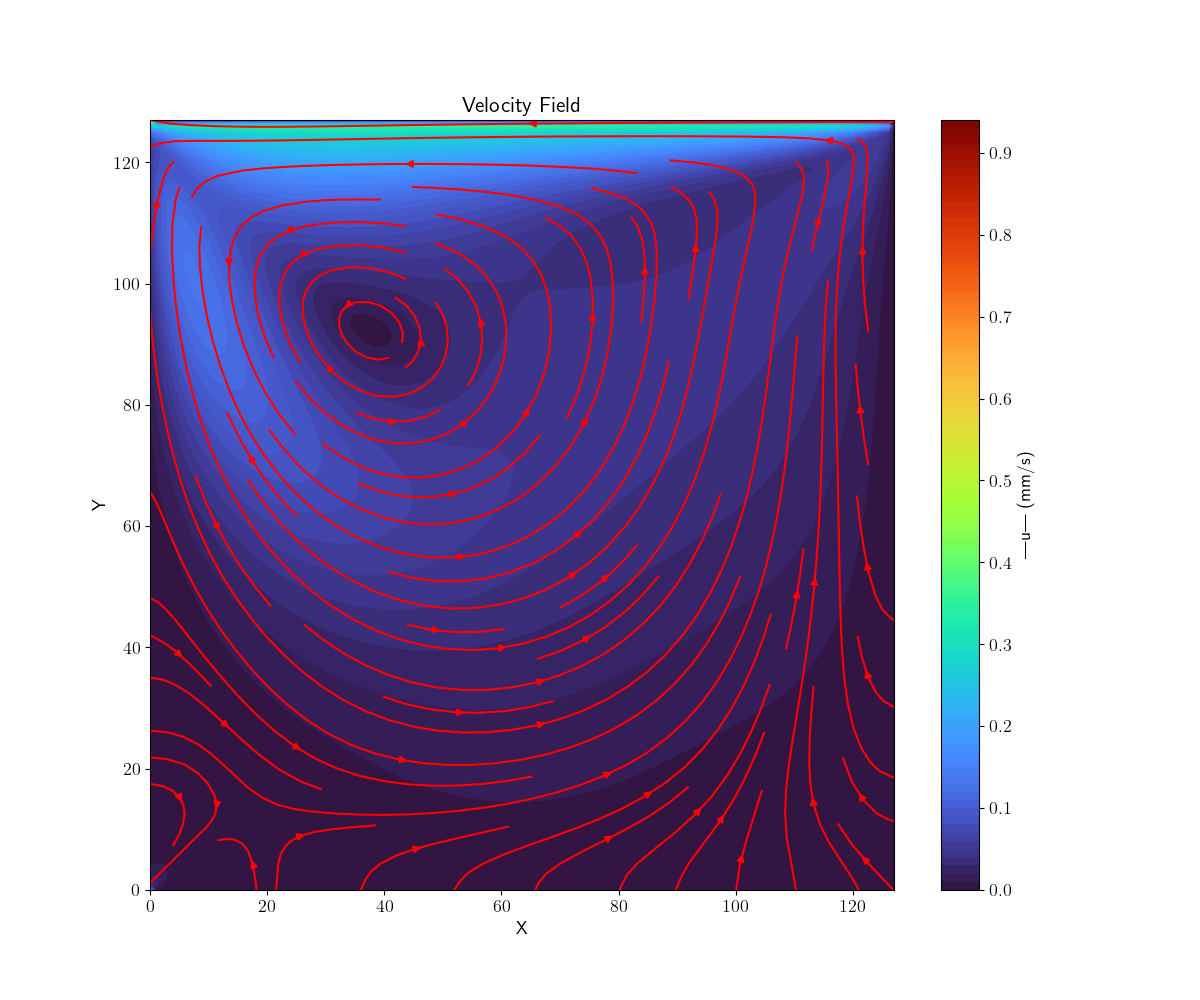
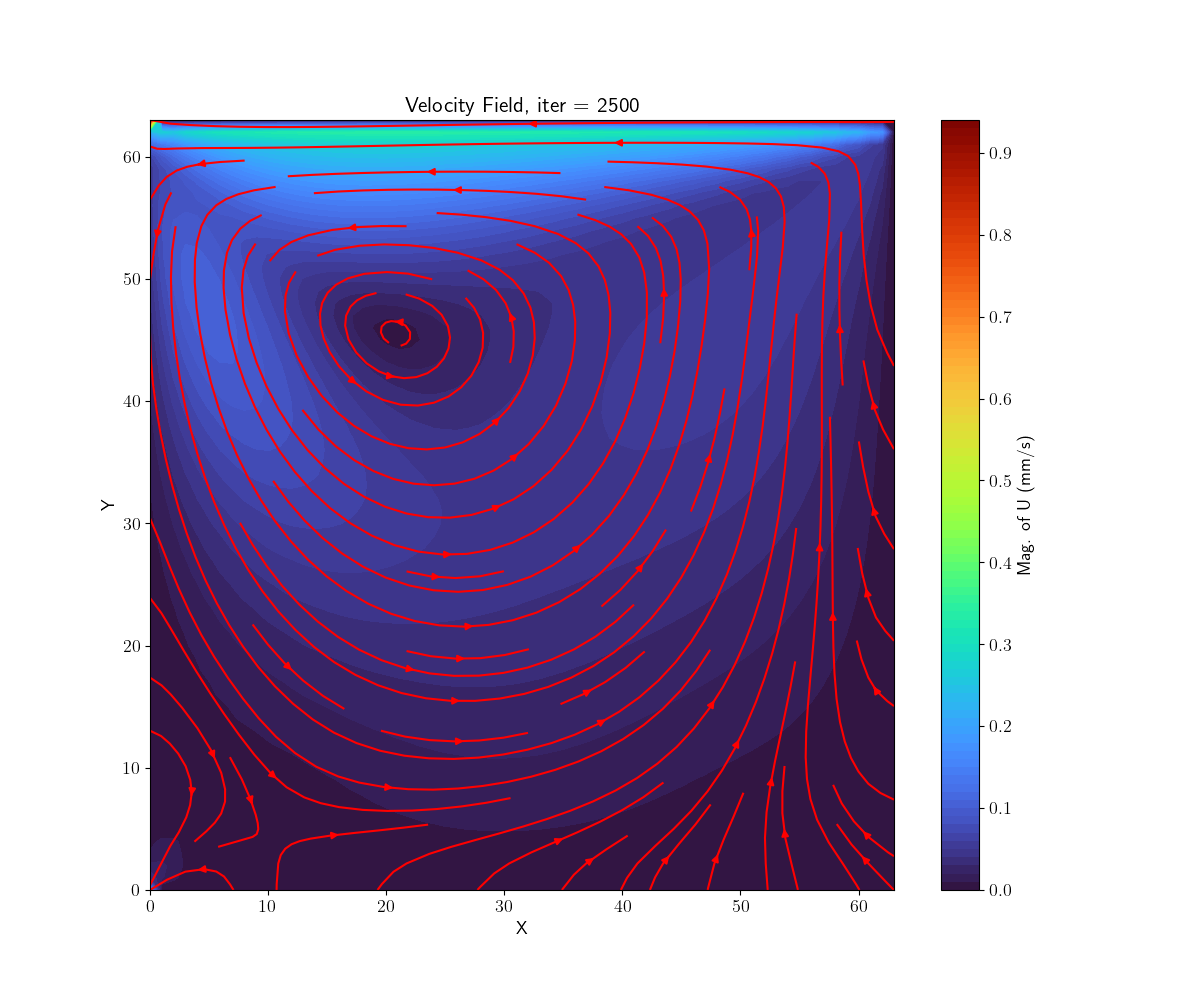
Add files via upload
Final commit

diff --git a/exc1.py b/exc1.py
@@ -1,114 +1,197 @@
 import matplotlib.pyplot as plt
 import numpy as np
 import functions
-import akashiwo_dist
 import matplotlib.colors
-import sys
 import time
-from matplotlib import rc
+import sys
 import constants
+import akashiwo_dist
 
-
-
-rc('text', usetex=True)
 # Set the backend
 matplotlib.use('TkAgg')
 
+# ------- Other constants -----------
+
+width = 64
+length = 64
+max_iter = 5000
+omega = 1
+lid_vel = 2
+
+# ----- Steady state check parameters ------
+
+window = 100
+threshold = 1e-5
+consecutive = 5
+
+boundary = (True, True, False, True) 
+
 # Initialize rho and u
-rho = np.ones((constants.width, constants.length))
-u = np.zeros((constants.width, constants.length, 2))
+rho = np.ones((width, length))
+u = np.zeros((width, length, 2))
 
 # Initialize density function w.r.t. rho and u 
 f = functions.equilibrium(rho, u)
 
-# Variables for checking if there is a steady state 
-steady_state_threshold = 1e-5
-steady_state_window = 100
-steady_state_cons = 5 
-steady_state_reached = False 
-
 # calculate corresponding Reynolds number
-Re = functions.calculate_re(omega=constants.omega, length=constants.length, lid_vel=constants.lid_vel)
+Re = functions.calculate_re(omega=omega, length=length, lid_vel=lid_vel)
+
 # create a directory to save the figures
 import os
 if not os.path.exists('LB_plankton_figs'):
     os.makedirs('LB_plankton_figs')
 
-t_ini = 0 
-start_time = time.time()
+steady_state_iteration = None
+u_at_point = np.zeros(max_iter)
 
-u_at_point = np.zeros(constants.max_iter)
-
-for t in range(constants.max_iter):
+for t in range(max_iter):
     # Streaming step
-    f = functions.streaming(f, constants.width, constants.length, constants.boundary, constants.lid_vel)     
-    # Collision step
-    f, rho, u = functions.collision(f, constants.omega)
-    
-    u_at_point[t] = np.linalg.norm(u[32,32,:])
+    f = functions.streaming(f, width, length, boundary, lid_vel) 
 
-    # Check for steady-state every 500 iters after the initial transient
-    if t >= steady_state_window:
-        if functions.check_steady_state(u_at_point[:t+1],threshold=steady_state_threshold,window=steady_state_window,consecutive=steady_state_cons):
-            steady_state_reached = True
+    # Collision step
+    f, rho, u = functions.collision(f, omega)
+    
+    # Check steady state at point (32, 32)
+    velocity_at_32_32 = np.linalg.norm(u[32, 32, :])
+    u_at_point[t] = velocity_at_32_32
+    
+    if t >= window and steady_state_iteration is None:
+        if functions.check_steady_state(u_at_point[:t+1], threshold=threshold, window=window, consecutive=consecutive):
+            steady_state_iteration = t
+            print(f"Steady state reached at iteration {t}. Velocity at (32, 32): {velocity_at_32_32}.")
+            steady_state_velocity = u.copy()
+
             break
 
-    # Save figure every 500 iterations
-#    if (t + 1) % 500 == 0:
-        #        print(f"Iteration {t+1}:")
-        #      print(f"Time taken: {time.time() - start_time:.2f} seconds")
-        #fig = plt.figure(figsize=(12, 10))
-        #plt.streamplot(np.arange(width), np.arange(length), u[:,:, 0].T, u[:,:, 1].T, color='r')
+    # Save figure every 250 iterations
+    if (t + 1) % 250 == 0:
+        fig = plt.figure(figsize=(12, 10))
+        plt.streamplot(np.arange(width), np.arange(length), u[:,:, 0].T, u[:,:, 1].T, color='r')
 
-        
-        # plt.contourf(np.arange(width), np.arange(length), np.linalg.norm(u, axis=2).T, cmap='turbo',levels=100)
-        #plt.colorbar(label='|u| (mm/s)')
-        
-        #plt.title('Velocity Field')
-#plt.xlabel('X'):wq
-        #plt.ylabel('Y')
-        #plt.savefig(f"LB_plankton_figs/figat_{t+1}.png")
-#plt.close()
+        plt.contourf(np.arange(width), np.arange(length), np.linalg.norm(u, axis=2).T, cmap='turbo',levels=100)
+        plt.colorbar(label='Mag. of U (mm/s)')
 
+        plt.title('Velocity Field, iter = %d' % (t+1))
+        plt.xlabel('X')
+        plt.ylabel('Y')
+        plt.savefig(f"LB_plankton_figs/figat_{t+1}.png")
+        plt.close()  # Add this line to close the figure after saving
 
-
+# Plot fluid speed at point (64, 64) over time
+plt.figure(figsize=(10, 6))
+plt.plot(np.arange(max_iter), u_at_point, color='black')
+plt.title('Fluid Speed @(32,32)')
+plt.xlabel('Iteration')
+plt.ylabel('Fluid parcel velocity (mm/s)')
+plt.grid(True)
+plt.tight_layout()
+plt.savefig(f"LB_plankton_figs/U_Parcel.png")
+plt.show()
 
 # Plot velocity field at steady state
-if steady_state_reached:
-    plt.figure(figsize=(12, 10))
+if steady_state_iteration is not None:
+    fig = plt.figure(figsize=(12, 10))
+    plt.streamplot(np.arange(width), np.arange(length), u[:,:, 0].T, u[:,:, 1].T, color='r')
 
-    # Plot velocity field
-    plt.streamplot(np.arange(constants.width), np.arange(constants.length), u[:,:, 0].T, u[:,:, 1].T, color='r')
-    plt.contourf(np.arange(constants.width), np.arange(constants.length), np.linalg.norm(u, axis=2).T, cmap='turbo', levels=100)
-    plt.colorbar(label='Mag. of U (mm/s)')
+    plt.contourf(np.arange(width), np.arange(length), np.linalg.norm(u, axis=2).T, cmap='turbo',levels=100)
+    x0, vc, ini_velocities, p0 = akashiwo_dist.ini_swimspeed_cells(width=width, length=length, num_cells=1000)
+    plt.quiver(x0[:, 0], x0[:, 1], ini_velocities[:,0]/1000, ini_velocities[:,1]/1000, color='lime', scale=10) # convert to mm/s    plt.colorbar(label='|u|')
 
-    # Plot particle positions
-    x0, vc, ini_velocities, p0 = akashiwo_dist.ini_swimspeed_cells(constants.width, constants.length)
-    plt.quiver(x0[:, 0], x0[:, 1], ini_velocities[:,0]/1000, ini_velocities[:,1]/1000, color='lime', scale=10) # convert to mm/s
-    plt.title(f'Initialization of H.Akashiwo at steady state (iter: {t}), Re: {Re}')
+    plt.title(f'Initialization of H.Akashiwo at steady state (iter: {t}), Re: {Re}') # convert to mm/s   
     plt.xlabel('X')
     plt.ylabel('Y')
-    plt.tight_layout()
-    plt.savefig("LB_plankton_figs/Velocity_Field_and_Particle_Positions_Steady_State.png")
+    plt.savefig("LB_plankton_figs/Velocity_Field_and_Particle_Positions_Steady_State.png")    
     plt.show()
-
     print(f"Steady state reached at iteration {t}. Phytoplankton cells initialize")
 else:
     print("Steady state not reached. Phytoplankton cells do not initialize. Adjust threshold or simulate for longer times")
 
+def calculate_vorticity(u):
+
+    du_dy, du_dx = np.gradient(steady_state_velocity[:,:,0])
+    dv_dy, dv_dx = np.gradient(steady_state_velocity[:,:,1])
+    fluid_vorticity = dv_dx - du_dy
+    return fluid_vorticity
+
+fluid_vorticity = calculate_vorticity(steady_state_velocity)
+
+fig = plt.figure(figsize=(10,10))
+plt.contourf(np.arange(width), np.arange(length), fluid_vorticity.T, cmap='turbo',levels=100)
+plt.colorbar(label='Vorticity $\omega$')
+plt.xlabel('X')
+plt.ylabel('Y')
+plt.title(f'Vorticity at steady state, Re: {Re}')
+plt.savefig("LB_plankton_figs/Vorticity_Steady_State.png")
+plt.show()
+
+# ===== ONTO SOLVING THE ORDINARY DIFFERENTIAL EQUATIONS USING RK4 =======
+# Function to calculate dp/dt
+def calculate_dp_dt(p, omega_star, k, Psi):
+    dp_dt = 1 / (2 * Psi) * (k - (k * p)) * p  + 0.5 * np.cross(omega_star, p)
+    return dp_dt
+
+# Function to calculate dX/dt
+def calculate_dX_dt(X, p, u, Phi):
+    dX_dt = Phi * p + u
+    return dX_dt
+
+# RK4 integration
+def RK4_step(X, p, u, omega_star, k, Phi, Psi, dt):
+    k1_p = dt * calculate_dp_dt(p, omega_star, k, Psi)
+    k1_X = dt * calculate_dX_dt(X, p, u, Phi)
+    
+    k2_p = dt * calculate_dp_dt(p + 0.5 * k1_p, omega_star, k, Psi)
+    k2_X = dt * calculate_dX_dt(X + 0.5 * k1_X, p + 0.5 * k1_p, u, Phi)
+    
+    k3_p = dt * calculate_dp_dt(p + 0.5 * k2_p, omega_star, k, Psi)
+    k3_X = dt * calculate_dX_dt(X + 0.5 * k2_X, p + 0.5 * k2_p, u, Phi)
+    
+    k4_p = dt * calculate_dp_dt(p + k3_p, omega_star, k, Psi)
+    k4_X = dt * calculate_dX_dt(X + k3_X, p + k3_p, u, Phi)
+    
+    dp_dt = (k1_p + 2 * k2_p + 2 * k3_p + k4_p) / 6
+    dX_dt = (k1_X + 2 * k2_X + 2 * k3_X + k4_X) / 6
+    
+    return dp_dt, dX_dt
+
+# params
+Psi = 2
+Phi = np.power(70.0, -3)
+
+# simulation params
+width = 64
+length = 64
+num_cells = 1000
+t_max = 10.0  # tmax
+dt = 0.1  # step size
+num_steps = int(t_max / dt)  # time steps
+
+# initial conditions
+x0, vc, ini_velocities, p0 = akashiwo_dist.ini_swimspeed_cells(width, length, num_cells)
 
 
+# y-direction unit vector with shape (1000, 2)
+k = np.zeros((num_cells, 2))
+k[:, 1] = 1  
 
-plt.figure(figsize=(10, 6))
-plt.plot(u_at_point, color='black')
-plt.title('Fluid Speed @(64,64)')
-plt.xlabel('time')
-plt.ylabel('Fluid parcel velocity (mm/s)')
-plt.grid(True)
-plt.xlim([0,max_iter])
-plt.tight_layout()
-plt.savefig(f"LB_plankton_figs/U_Parcel.png")
+# arrays for cell positions and orientations
+p_values = np.zeros((num_steps, num_cells, 2))
+X_values = np.zeros((num_steps, num_cells, 2))
+p_values[0] = p0
+X_values[0] = x0
 
+# Integration using RK4
+for i in range(num_steps):
+    # calculate fluid vorticity at current cell positions
+    omega_star = np.array([fluid_vorticity[int(x[1]), int(x[0])] for x in X_values[i]])
+    omega_star = omega_star.reshape(num_cells,1, 2)  # Reshape to have a 2nd dimension with 1 item (I DONT UNDERSTAND THIS PART)
 
+    print("Shape of omega_star after reshaping:", omega_star.shape)
 
+    # here we calculate derivatives using RK4 with current vorticity
+    dp_dt, dX_dt = RK4_step(X_values[i], p_values[i], np.zeros((num_cells, 2)), omega_star, k, Phi, Psi, dt)
+    
+    # update p and X
+    p_values[i + 1] = p_values[i] + dp_dt
+    X_values[i + 1] = X_values[i] + dX_dt
 

diff --git a/functions.py b/functions.py
@@ -6,6 +6,7 @@ import constants
 import akashiwo_dist 
 
 
+
 # -------------functions-------------
 # calculate density at x, t point on pdfGrid d
 def f_rho(f):
@@ -76,19 +77,19 @@ def set_boundry(boundry=constants.boundary, width=constants.width,length=constan
     # convert the boundries to Boolean
     return Mask == 1
 
-def plot_velocity(u, steps, milestone, re, lid_vel, omega, figsize = (10,10), width = constants.width, length = constants.length):
+    #def plot_velocity(u, steps, milestone, re, lid_vel, omega, figsize = (10,10), width = constants.width, length = constants.length):
     
-    fig = plt.figure(figsize=figsize)
-    if lid_vel:
-        plt.title("lattice dimensions: (%d * %d), omega: %.1f, lid velocity = %.1f, steps: %d, Re: %0.1f " %(width, length, omega, lid_vel, steps, re))
-    else:
-        plt.title("lattice dimensions: (%d * %d), omega: %.1f, steps: %d, elapsed_time: %0.1f seconds" %(width, length, omega,steps, elapsed_time))
-    plt.streamplot(np.arange(width), np.arange(length), u[:,:, 0].T, u[:,:, 1].T)
-    plt.xlabel("lenght")
-    plt.ylabel("width")
-    plt.xticks(np.arange(0, length+1, 25))
-    plt.yticks(np.arange(0, width+1, 25))
-    plt.savefig("milestone_%d_%d_%d_%.1f_%d.png" %(milestone, width, length, omega,steps))
+    #fig = plt.figure(figsize=figsize)
+    #if lid_vel:
+    #    plt.title("lattice dimensions: (%d * %d), omega: %.1f, lid velocity = %.1f, steps: %d, Re: %0.1f " %(width, length, omega, lid_vel, steps, re))
+    #else:
+    #    plt.title("lattice dimensions: (%d * %d), omega: %.1f, steps: %d, elapsed_time: %0.1f seconds" %(width, length, omega,steps, elapsed_time))
+    #plt.streamplot(np.arange(width), np.arange(length), u[:,:, 0].T, u[:,:, 1].T)
+    #plt.xlabel("lenght")
+    #plt.ylabel("width")
+    #plt.xticks(np.arange(0, length+1, 25))
+    #plt.yticks(np.arange(0, width+1, 25))
+    #plt.savefig("milestone_%d_%d_%d_%.1f_%d.png" %(milestone, width, length, omega,steps))
 
 def calculate_re(omega, length, lid_vel):
     nu = 1/3 * (1/omega - 1/2)
@@ -99,7 +100,7 @@ def calculate_re(omega, length, lid_vel):
 # Before initialising the plankton cells, we need to have a steady state flow, under a certain threshold we say it has been reached:
 
 
-def check_steady_state(u_at_point, threshold=1e-5, window=1000, consecutive=5):
+def check_steady_state(u_at_point, threshold=1e-5, window=500, consecutive=3):
     """
     Check if the system has reached steady state based on the change in fluid velocity magnitude.
     
@@ -137,7 +138,16 @@ def check_steady_state(u_at_point, threshold=1e-5, window=1000, consecutive=5):
     
     return False
 
-    
 
 
+def calculate_dp_dt(p, vorticity, k, Psi=2):
+    dp_dt = 1/(2 * Psi) * (k - np.dot(k, p) * p) + 0.5 * np.cross(vorticity, p) 
+    return dp_dt 
+
+def calculate_dX_dt(X, p, u, Phi=np.power(70.0,-3)):
+    dX_dt = Phi * p + u 
+    return dX_dt 
+
+def k():
+    return np.array([0, 1])
 

diff --git a/akashiwo_dist.py b/akashiwo_dist.py
@@ -53,7 +53,7 @@ def swim_speed_dist(num_particles, dist='swim_speed_distribution.csv'):
 
     return b
 
-def ini_swimspeed_cells(width, length, num_cells=30):
+def ini_swimspeed_cells(width, length, num_cells=1000):
     x0 = np.random.rand(num_cells,2) * np.array([width,length])
     p0 = np.array([rand_unit_vect_2D() for _ in range(num_cells)])
 
@@ -63,10 +63,4 @@ def ini_swimspeed_cells(width, length, num_cells=30):
         ini_velocities[i] = vc[i] * p0[i]
 
     return x0, vc, ini_velocities, p0
-
-
-def calculate_vorticity(X,p,k):
-    fluid_vorticity = np.gradient(u_func(X),axis=(0,1)) 
-    c_prod  = np.cross(fluid_vorticity, p)
-    return c_prod 
 

diff --git a/constants.py b/constants.py
@@ -12,5 +12,5 @@ length = 64
 width = 64
 omega = 1
 lid_vel = 2
-max_iter = 10000
+max_iter = 5000
 boundary = (True, True, False, True)
